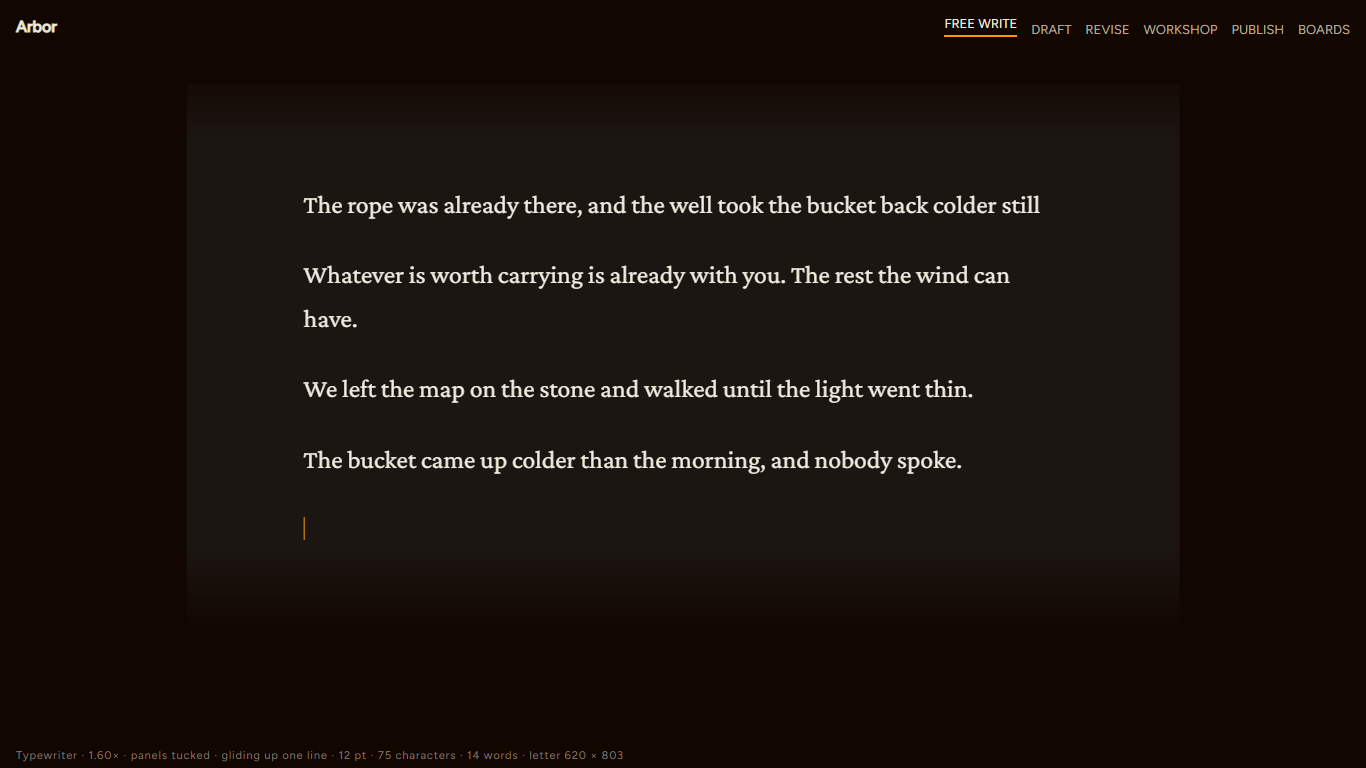
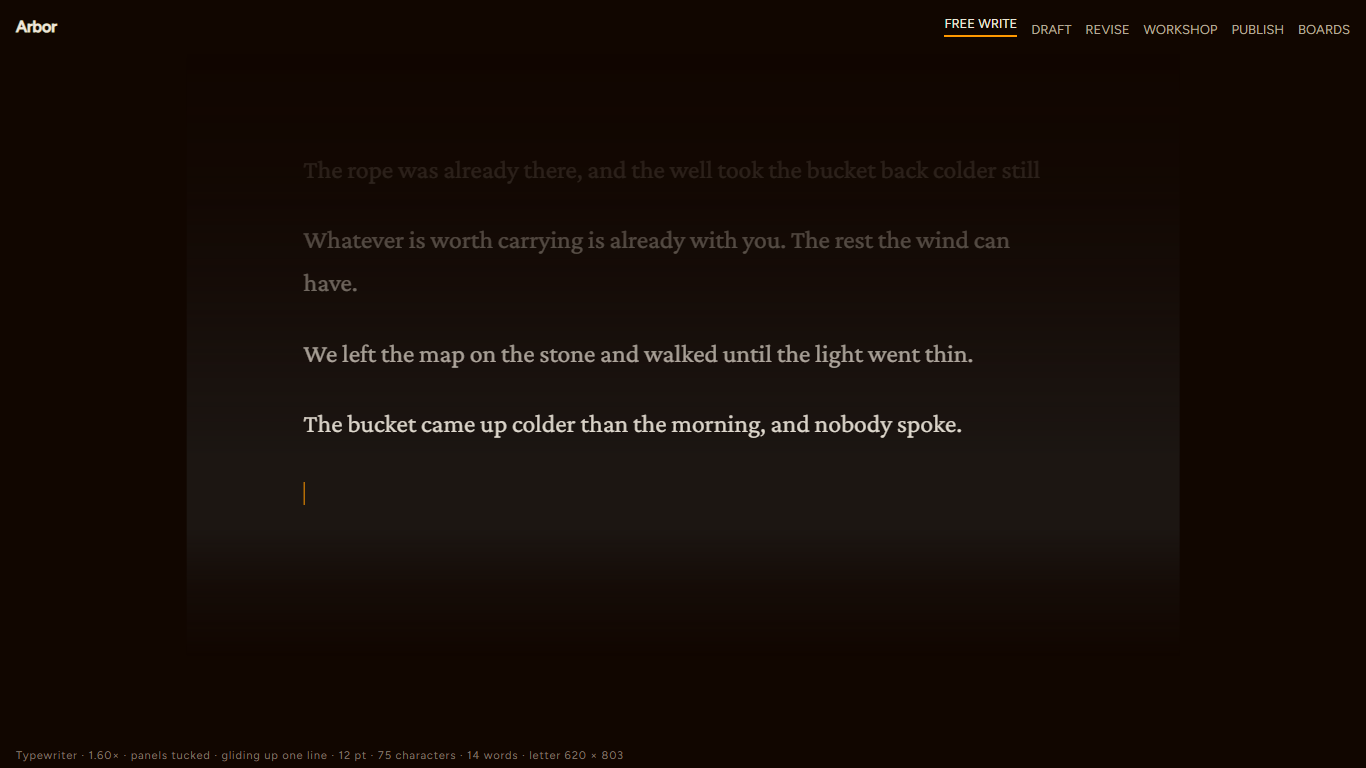
Fade older typewriter lines into the desk.
EOF

diff --git a/docs/mockups/page-size/index.html b/docs/mockups/page-size/index.html
@@ -51,7 +51,30 @@
   .prose { font-family: 'Crimson Pro', Georgia, serif; font-size: 16px; line-height: 1.7; }
   .prose p + p { margin-top: 1.05em; }
   html[data-view='typewriter'] .panel { display: none; }
-  html[data-view='typewriter'] .stage { overflow: hidden; mask-image: linear-gradient(to bottom, transparent 0, transparent calc(50% - 8.4 * var(--lh)), #000 calc(50% - 5.8 * var(--lh)), #000 calc(50% + 3.4 * var(--lh)), transparent calc(50% + 5.6 * var(--lh)), transparent 100%); -webkit-mask-image: linear-gradient(to bottom, transparent 0, transparent calc(50% - 8.4 * var(--lh)), #000 calc(50% - 5.8 * var(--lh)), #000 calc(50% + 3.4 * var(--lh)), transparent calc(50% + 5.6 * var(--lh)), transparent 100%); }
+  html[data-view='typewriter'] .stage {
+    overflow: hidden;
+    --anchor: 60%;
+    mask-image: linear-gradient(to bottom,
+      transparent 0,
+      rgba(0,0,0,.12) calc(var(--anchor) - 6.6 * var(--lh)),
+      rgba(0,0,0,.4) calc(var(--anchor) - 4.2 * var(--lh)),
+      rgba(0,0,0,.72) calc(var(--anchor) - 2.2 * var(--lh)),
+      #000 calc(var(--anchor) - 0.15 * var(--lh)),
+      #000 calc(var(--anchor) + 1.45 * var(--lh)),
+      rgba(0,0,0,.4) calc(var(--anchor) + 2.8 * var(--lh)),
+      transparent calc(var(--anchor) + 4.4 * var(--lh)),
+      transparent 100%);
+    -webkit-mask-image: linear-gradient(to bottom,
+      transparent 0,
+      rgba(0,0,0,.12) calc(var(--anchor) - 6.6 * var(--lh)),
+      rgba(0,0,0,.4) calc(var(--anchor) - 4.2 * var(--lh)),
+      rgba(0,0,0,.72) calc(var(--anchor) - 2.2 * var(--lh)),
+      #000 calc(var(--anchor) - 0.15 * var(--lh)),
+      #000 calc(var(--anchor) + 1.45 * var(--lh)),
+      rgba(0,0,0,.4) calc(var(--anchor) + 2.8 * var(--lh)),
+      transparent calc(var(--anchor) + 4.4 * var(--lh)),
+      transparent 100%);
+  }
   html[data-view='typewriter'] .page { padding: 0 !important; overflow: visible; box-shadow: none; border: 0; }
   html[data-view='typewriter'] .port { position: static; overflow: visible; mask-image: none; -webkit-mask-image: none; }
   html[data-view='typewriter'] .sheet { padding: var(--pad-y) var(--pad-x); }
@@ -139,13 +162,16 @@
     if (view === 'typewriter') {
       var stage = document.querySelector('.stage');
       var lh = 16 * scale * 1.7;
+      var anchor = 0.60;
       stage.style.setProperty('--lh', lh + 'px');
-      page.style.setProperty('--pad-x', (padX * scale) + 'px');
-      page.style.setProperty('--pad-y', (padY * scale) + 'px');
+      stage.style.setProperty('--anchor', (anchor * 100) + '%');
+      var bleed = stage.clientHeight;
+      document.getElementById('sheet').style.padding = bleed + 'px ' + (padX * scale) + 'px ' + bleed + 'px';
+      page.style.height = 'auto';
       page.style.top = '0px';
       var caretEl = document.querySelector('.caret');
       var caretY = caretEl.getBoundingClientRect().top - page.getBoundingClientRect().top;
-      var target = stage.getBoundingClientRect().top + stage.clientHeight * 0.66;
+      var target = stage.getBoundingClientRect().top + stage.clientHeight * anchor;
       var pageTop = target - caretY;
       if (root.dataset.glide === 'mid') pageTop += lh * 0.5;
       page.style.top = pageTop + 'px';
